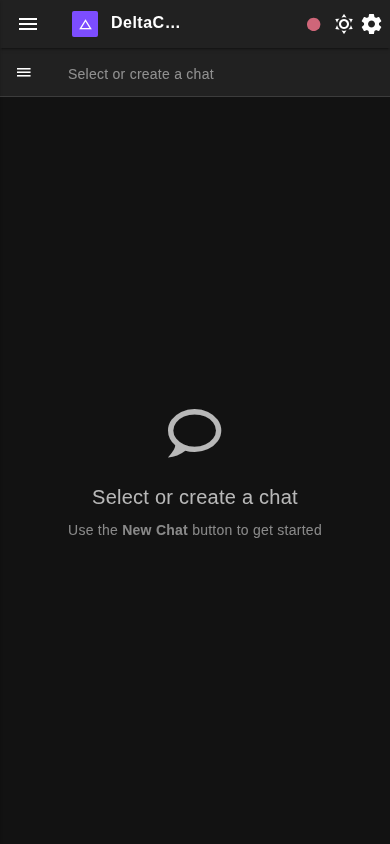
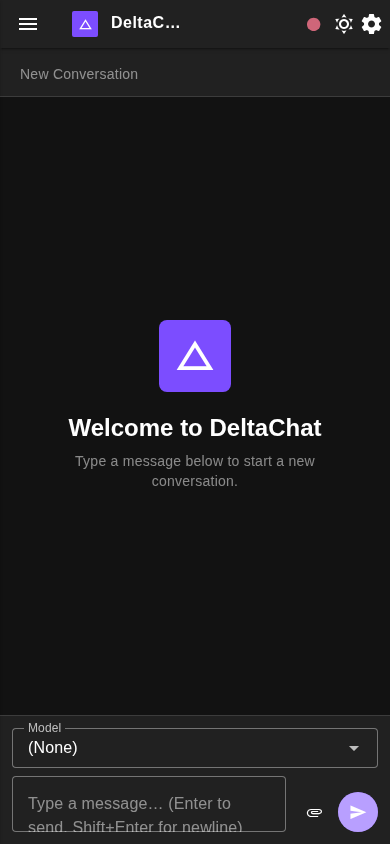
Fix input button layout, add collapsible settings sidebar rail, update screenshots

diff --git a/frontend/src/components/SettingsPanel.vue b/frontend/src/components/SettingsPanel.vue
@@ -1,21 +1,51 @@
 <template>
   <div class="settings-layout">
-    <!-- Left sidebar tabs -->
-    <aside class="settings-nav">
-      <div class="settings-nav__title pa-3 text-caption text-uppercase text-disabled font-weight-bold">
-        Settings
+    <!-- Left sidebar — collapsible rail (same pattern as AppNavigation) -->
+    <aside class="settings-nav" :class="{ 'settings-nav--rail': settingsRail }">
+      <!-- Collapsed: single chevron-right to expand -->
+      <div v-if="settingsRail" class="d-flex justify-center align-center py-3">
+        <v-btn
+          icon="mdi-chevron-right"
+          variant="text"
+          size="small"
+          aria-label="Expand settings sidebar"
+          @click="settingsRail = false"
+        />
       </div>
-      <v-list density="compact" nav>
-        <v-list-item
+      <!-- Expanded: "Settings" title + collapse chevron -->
+      <div v-else class="d-flex align-center px-3" style="min-height: 48px;">
+        <v-icon icon="mdi-cog" size="18" class="mr-2" style="opacity:0.7;flex-shrink:0" />
+        <span class="text-body-2 font-weight-bold flex-grow-1">Settings</span>
+        <v-btn
+          icon="mdi-chevron-left"
+          variant="text"
+          size="small"
+          aria-label="Collapse settings sidebar"
+          @click="settingsRail = true"
+        />
+      </div>
+      <v-divider />
+
+      <v-list density="compact" nav class="mt-1">
+        <v-tooltip
           v-for="tab in tabs"
           :key="tab.value"
-          :prepend-icon="tab.icon"
-          :title="tab.label"
-          :active="activeTab === tab.value"
-          rounded="lg"
-          class="mb-1"
-          @click="activeTab = tab.value"
-        />
+          :text="tab.label"
+          location="right"
+          :disabled="!settingsRail"
+        >
+          <template #activator="{ props: tipProps }">
+            <v-list-item
+              v-bind="tipProps"
+              :prepend-icon="tab.icon"
+              :title="settingsRail ? undefined : tab.label"
+              :active="activeTab === tab.value"
+              rounded="lg"
+              class="mb-1"
+              @click="activeTab = tab.value"
+            />
+          </template>
+        </v-tooltip>
       </v-list>
     </aside>
 
@@ -515,6 +545,7 @@ const ICON_BG_ALPHA = '22'
 
 const activeTab = ref('providers')
 const saving = ref(false)
+const settingsRail = ref(false)
 
 const tabs = [
   { value: 'providers', label: 'Model Providers', icon: 'mdi-key' },
@@ -734,16 +765,26 @@ onMounted(async () => {
   overflow: hidden;
 }
 
+/* ── Settings sidebar ──────────────────────────── */
 .settings-nav {
   width: 200px;
   min-width: 200px;
   border-right: 1px solid rgba(var(--v-border-color), var(--v-border-opacity));
   overflow-y: auto;
   background: rgb(var(--v-theme-surface));
+  transition: width 0.2s ease, min-width 0.2s ease;
+  flex-shrink: 0;
 }
 
-.settings-nav__title {
-  letter-spacing: 0.08em;
+/* Rail (collapsed) mode — icons only */
+.settings-nav--rail {
+  width: 56px;
+  min-width: 56px;
+}
+
+/* Hide list item title text when in rail mode */
+.settings-nav--rail :deep(.v-list-item__content) {
+  display: none;
 }
 
 .settings-content {
@@ -768,16 +809,5 @@ onMounted(async () => {
 .drop-zone.dragging {
   border-color: rgb(var(--v-theme-primary));
   background: rgba(var(--v-theme-primary), 0.05);
-}
-
-@media (max-width: 600px) {
-  .settings-nav {
-    width: 56px;
-    min-width: 56px;
-  }
-  .settings-nav .v-list-item__title,
-  .settings-nav__title {
-    display: none;
-  }
 }
 </style>

diff --git a/frontend/src/components/ChatInterface.vue b/frontend/src/components/ChatInterface.vue
@@ -105,7 +105,7 @@
               @keydown.enter.exact.prevent="sendMessage"
             />
           </v-col>
-          <v-col cols="auto" class="ml-2 d-flex flex-column" style="gap: 4px;">
+          <v-col cols="auto" class="ml-2 d-flex flex-row align-end" style="gap: 4px;">
             <v-btn
               icon="mdi-attachment"
               variant="text"

diff --git a/CHANGELOG.md b/CHANGELOG.md
@@ -35,6 +35,8 @@ The format is based on [Keep a Changelog](https://keepachangelog.com/en/1.0.0/).
 - Knowledge Stores removed from the main left navigation (it lives in Settings now).
 
 ### Changed
+- `ChatInterface.vue` – attachment button now sits **left of the send button** in a horizontal row (previously stacked vertically above the send button).
+- `SettingsPanel.vue` – settings left sidebar now supports collapsible rail mode matching the chat sidebar pattern: collapsed shows icons only (56 px) with a `›` chevron to expand; expanded shows icon + text (200 px) with a `‹` chevron to collapse; active tab is always highlighted.
 - `ChatInterface.vue` – internal `<aside class="chat-sidebar">` removed; component is now the chat area only (toolbar + messages + input). Input area always visible; `sendMessage()` auto-creates a chat when `currentChatId` is null; toolbar model selector always visible on desktop; `loadMessages` triggered by watching `currentChatId`.
 - `AppNavigation.vue` – takes over chat list responsibilities (search, filter, chat items, folder groups, bookmark/delete); collapsed rail shows `+` icon only; expanded shows full chat UI; clicking a chat item selects it and loads its messages.
 - `router/index.js` – removed `/knowledge` route; only `/` and `/settings` remain.

diff --git a/README.md b/README.md
@@ -19,29 +19,23 @@ A modular, extensible AI chat interface built with **Node.js + Vue 3** using **[
 
 ## Screenshots
 
-### Chat View — icon-only left rail, chat sidebar with All/Saved filter
+### Chat View — collapsed sidebar (logo + `+` icon only)
 ![Chat](docs/screenshots/chat.png)
 
-### Chat View — expanded left sidebar
+### Chat View — expanded sidebar (logo, New Chat button, search, chat list)
 ![Chat expanded](docs/screenshots/chat-expanded.png)
 
 ### Chat View — mobile
 ![Chat mobile](docs/screenshots/chat-mobile.png)
 
-### Settings — Model Providers
+### Settings — expanded sidebar (icon + text, active highlight)
 ![Settings – providers](docs/screenshots/settings.png)
+
+### Settings — collapsed sidebar (icons only with active indicator)
+![Settings – collapsed](docs/screenshots/settings-collapsed.png)
 
 ### Settings — Models (named configurations users chat with)
 ![Settings – models](docs/screenshots/settings-models.png)
-
-### Settings — Knowledge Stores
-![Settings – knowledge](docs/screenshots/settings-knowledge.png)
-
-### Settings — Agents
-![Settings – agents](docs/screenshots/settings-agents.png)
-
-### Settings — Tools
-![Settings – tools](docs/screenshots/settings-tools.png)
 
 ---
 
